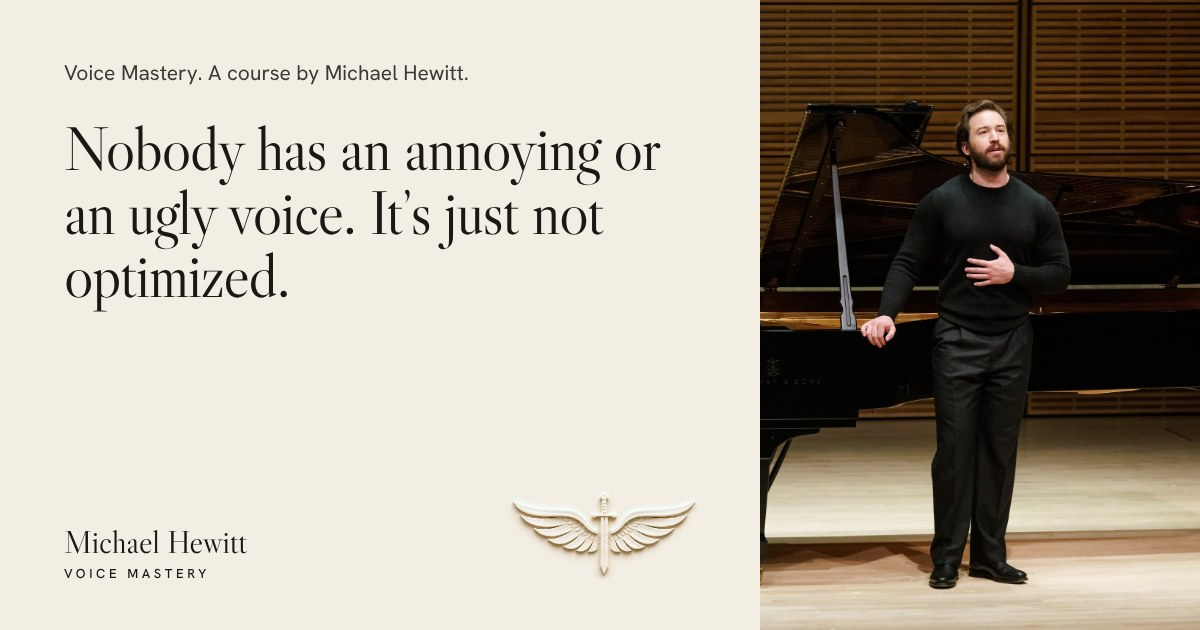
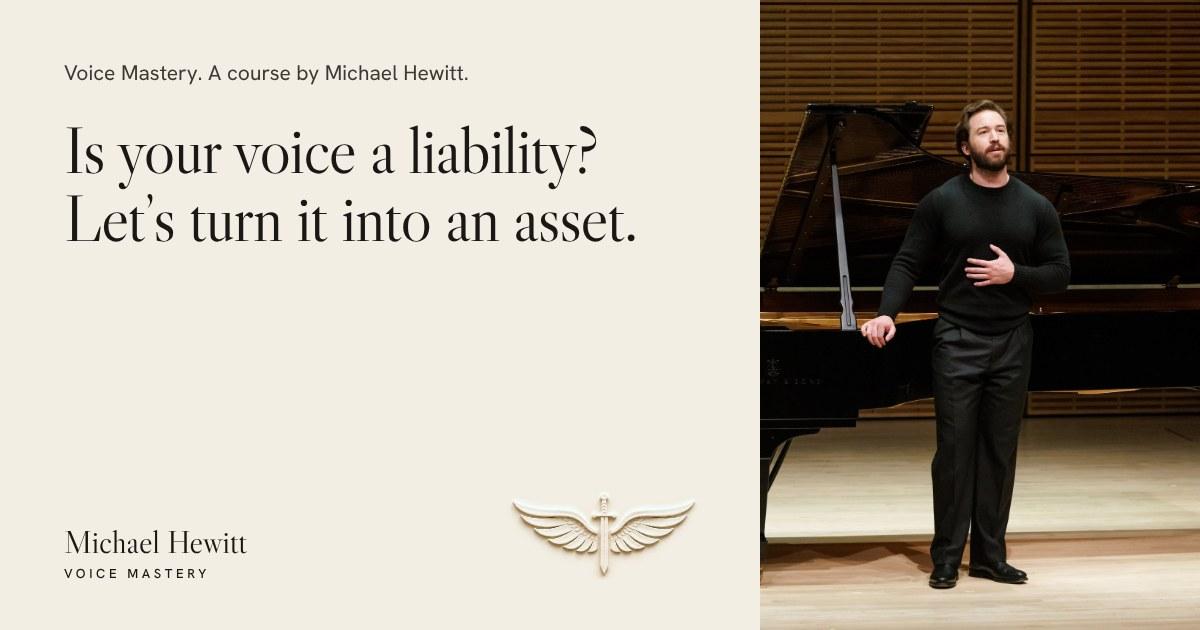
Open the Voice Mastery sales page with Michael's letter (#26)
* Tighten the Voice Mastery sales page for phones

The testimonials now show each client's strongest line, word for word,
with who said it on one short line, so the section is about 40% shorter
on a phone. On phones the header stays at the top with the pre-order
button, the emblem is smaller, the Carnegie Hall and La traviata photos
are cropped shorter, and Aaron Smith's photo sits beside his name. The
page is about a fifth shorter on a phone. Nothing else changes on desktop.

Claude-Session: https://claude.ai/code/session_01XbAx1mQMFUoDbdWyCNvUbj

* Open the Voice Mastery sales page with Michael's letter

The top of the page is now a letter in Michael's words: a new headline,
the letter itself, and his signature, with the photo, price, and
pre-order button beside it on wide screens and after it on phones. The
About section carries his new paragraphs. The share image and the page
description use the new headline.

Claude-Session: https://claude.ai/code/session_01XbAx1mQMFUoDbdWyCNvUbj

* Set the Voice Mastery letter cleanly and drop the problem table

The letter now reads as one piece: no rules between lines, one text
size throughout, the problems and the three "As a..." lines as bullets,
and the long "From BDRs" sentence broken at its two joints. Three
problems from the old table join the list, "robotic" joins the first
bullet, and the table itself is removed because the letter now covers it.

Claude-Session: https://claude.ai/code/session_01XbAx1mQMFUoDbdWyCNvUbj

---------

Changed region(s): [[0.0617, 0.2111, 0.555, 0.3016], [0.0308, 0.3016, 0.5242, 0.3921], [0.0617, 0.4222, 0.2467, 0.4825]]

diff --git a/voicemastery/index.html b/voicemastery/index.html
@@ -4,12 +4,12 @@
 <meta charset="utf-8">
 <meta name="viewport" content="width=device-width, initial-scale=1">
 <title>Voice Mastery: a course by Michael Hewitt</title>
-<meta name="description" content="Nobody has an annoying or an ugly voice. It’s just not optimized. Voice Mastery is a self-paced course by Michael Hewitt: $249 in pre-sale, $599 when it goes live on January 1, 2027.">
+<meta name="description" content="Is your voice a liability? Let’s turn it into an asset. Voice Mastery is a self-paced course by Michael Hewitt: $249 in pre-sale, $599 when it goes live on January 1, 2027.">
 <link rel="canonical" href="https://www.voicemastery.com/">
 <meta property="og:type" content="website">
 <meta property="og:site_name" content="Voice Mastery">
 <meta property="og:title" content="Voice Mastery: a course by Michael Hewitt">
-<meta property="og:description" content="Nobody has an annoying or an ugly voice. It’s just not optimized. Voice Mastery is a self-paced course by Michael Hewitt: $249 in pre-sale, $599 when it goes live on January 1, 2027.">
+<meta property="og:description" content="Is your voice a liability? Let’s turn it into an asset. Voice Mastery is a self-paced course by Michael Hewitt: $249 in pre-sale, $599 when it goes live on January 1, 2027.">
 <meta property="og:url" content="https://www.voicemastery.com/">
 <meta property="og:image" content="https://www.voicemastery.com/assets/og.jpg">
 <meta property="og:image:width" content="1200">
@@ -32,13 +32,23 @@ a.vm-btn:hover{background:#7A2E22 !important;color:#F3EEE4 !important}
 a.vm-btn-l:hover{background:#FFFFFF !important;color:#7A2E22 !important}
 :focus-visible{outline:2px solid #7A2E22;outline-offset:4px}
 .vm-dark :focus-visible{outline-color:#F3EEE4}
-[id]{scroll-margin-top:24px}
+[id]{scroll-margin-top:84px}
 summary.vm-q{list-style:none;cursor:pointer}
 summary.vm-q::-webkit-details-marker{display:none}
 summary.vm-q::after{content:'+';flex:0 0 auto;font-family:'Hanken Grotesk','Helvetica Neue',system-ui,sans-serif;font-size:26px;font-weight:400;line-height:1;color:#7A2E22}
 details[open]>summary.vm-q::after{transform:rotate(45deg)}
 summary.vm-q:hover{color:#7A2E22 !important}
 @media (max-width:760px){.vm-links{display:none !important}}
+.vm-list li::marker{color:#7A2E22}
+@media (min-width:900px){.vm-aside{position:sticky;top:96px}}
+@media (max-width:600px){
+.vm-head>div{min-height:60px !important;padding-top:4px !important;padding-bottom:4px !important}
+.vm-emblem{max-width:120px !important}
+.vm-photo{aspect-ratio:4 / 3 !important}
+.vm-feature-lead{font-size:17px !important}
+.vm-feature-by{flex-direction:row !important;align-items:center !important;gap:16px !important}
+.vm-feature-photo{flex:0 0 112px;width:112px !important}
+}
 </style>
 </head>
 <body>
@@ -48,7 +58,7 @@ summary.vm-q:hover{color:#7A2E22 !important}
 <p style="max-width: 1280px; margin: 0 auto; box-sizing: border-box; margin: 0 auto; padding: 11px clamp(20px, 5vw, 64px); font-size: 14px; line-height: 1.45; text-align: center; text-wrap: balance;">Pre-sale: $249 now. $599 when the course goes live on January 1. <a class="vm-light" href="https://buy.stripe.com/cNidR81yY9bi78r3ZzaIM3m" style="color: #F3EEE4; font-weight: 500; white-space: nowrap;">Pre-order</a></p>
 </div>
 
-<header style="border-bottom: 1px solid rgba(26,23,20,0.16);">
+<header class="vm-head" style="position: sticky; top: 0; z-index: 40; background: #F3EEE4; border-bottom: 1px solid rgba(26,23,20,0.16);">
 <div style="max-width: 1280px; margin: 0 auto; box-sizing: border-box; min-height: 72px; padding: 8px clamp(20px, 5vw, 64px); display: flex; flex-wrap: wrap; justify-content: space-between; align-items: center; gap: 8px 24px;">
 <a href="#top" style="display: inline-flex; flex-direction: column; align-items: flex-start; gap: 6px; padding: 8px 0; color: #1A1714; text-decoration: none; white-space: nowrap;">
 <span style="font-family: 'Libre Caslon Display', 'Big Caslon', Georgia, serif; font-size: 23px; line-height: 1; letter-spacing: 0.005em;">Michael Hewitt</span>
@@ -63,19 +73,47 @@ summary.vm-q:hover{color:#7A2E22 !important}
 <div style="display: flex; flex-wrap: wrap-reverse; align-items: center; gap: clamp(20px, 4vw, 64px);">
 <div style="flex: 7 1 440px; min-width: 0; display: flex; flex-direction: column; gap: clamp(16px, 2vw, 28px);">
 <p style="margin: 0; font-size: 16px; line-height: 1.5; color: #3D3832;">Voice Mastery. A course by Michael Hewitt.</p>
-<h1 id="hero-title" style="margin: 0; font-family: 'Libre Caslon Display', 'Big Caslon', Georgia, serif; font-weight: 400; font-size: clamp(42px, 5.4vw, 78px); line-height: 1; letter-spacing: -0.022em; text-wrap: balance; color: #1A1714;">Nobody has an annoying or an ugly voice. It’s just not optimized.</h1>
+<h1 id="hero-title" style="margin: 0; font-family: 'Libre Caslon Display', 'Big Caslon', Georgia, serif; font-weight: 400; font-size: clamp(40px, 4.7vw, 66px); line-height: 1.02; letter-spacing: -0.022em; text-wrap: balance; color: #1A1714;"><span style="display: block;">Is your voice a liability?</span><span style="display: block;">Let’s turn it into an asset.</span></h1>
 </div>
 <div style="flex: 5 1 240px; min-width: 0;">
-<img src="/assets/emblem.webp" alt="" width="1532" height="688" style="display: block; width: 100%; max-width: clamp(200px, 36vw, 420px); height: auto;">
+<img class="vm-emblem" src="/assets/emblem.webp" alt="" width="1532" height="688" style="display: block; width: 100%; max-width: clamp(200px, 36vw, 420px); height: auto;">
 </div>
 </div>
-<div style="display: flex; flex-wrap: wrap-reverse; align-items: flex-end; gap: clamp(32px, 5vw, 80px);">
-<figure style="flex: 5 1 320px; min-width: 0; margin: 0;">
-<img src="/assets/carnegie.jpg" alt="Michael Hewitt singing in recital at Carnegie Hall, standing beside a grand piano" width="1200" height="1800" style="display: block; width: 100%; height: auto; aspect-ratio: 4 / 5; object-fit: cover; object-position: 50% 22%; background: #E6DFD2;">
+<div style="display: flex; flex-wrap: wrap; align-items: flex-start; justify-content: space-between; gap: 36px clamp(32px, 5vw, 72px);">
+<div style="flex: 7 1 460px; min-width: 0; max-width: 660px; display: flex; flex-direction: column; gap: clamp(16px, 1.6vw, 22px);">
+<p style="margin: 0; font-family: 'Libre Caslon Text', Georgia, serif; font-size: clamp(18px, 1.55vw, 20px); line-height: 1.55; color: #1A1714; text-wrap: pretty;">Your competence deserves a speaking voice that matches what you know, what you’ve accomplished, and where you’re going. But right now, all anyone can hear is how you sound, and it’s costing you reputation, opportunity, compensation, and confidence.</p>
+<ul class="vm-list" style="margin: 0; padding: 0 0 0 1.2em; font-family: 'Libre Caslon Text', Georgia, serif; font-size: clamp(18px, 1.55vw, 20px); line-height: 1.45; color: #1A1714;">
+<li style="padding: 4px 0 4px 2px; text-wrap: pretty;">Sounding monotone or robotic, overly nasal, too high (or&nbsp;low) pitched</li>
+<li style="padding: 4px 0 4px 2px; text-wrap: pretty;">Hating your voice</li>
+<li style="padding: 4px 0 4px 2px; text-wrap: pretty;">Losing your voice</li>
+<li style="padding: 4px 0 4px 2px; text-wrap: pretty;">Not being heard, always asked to repeat yourself</li>
+<li style="padding: 4px 0 4px 2px; text-wrap: pretty;">Rambling</li>
+<li style="padding: 4px 0 4px 2px; text-wrap: pretty;">Getting talked over in meetings</li>
+<li style="padding: 4px 0 4px 2px; text-wrap: pretty;">Having more filler words than relevant content</li>
+<li style="padding: 4px 0 4px 2px; text-wrap: pretty;">Discomfort giving feedback or holding frame in a pricing or negotiation meeting</li>
+<li style="padding: 4px 0 4px 2px; text-wrap: pretty;">Asking questions that instead of building trust and moving the conversation forward, make you look less competent than you are</li>
+</ul>
+<p style="margin: 0; font-family: 'Libre Caslon Text', Georgia, serif; font-size: clamp(18px, 1.55vw, 20px); line-height: 1.55; color: #1A1714; text-wrap: pretty; font-weight: 700;">These are all skill issues. Which means: they’re learnable, and trainable.</p>
+<p style="margin: 0; font-family: 'Libre Caslon Text', Georgia, serif; font-size: clamp(18px, 1.55vw, 20px); line-height: 1.55; color: #1A1714; text-wrap: pretty;">Speaking with confidence, clarity, and concision is simple, yet so few do so.</p>
+<p style="margin: 0; font-family: 'Libre Caslon Text', Georgia, serif; font-size: clamp(18px, 1.55vw, 20px); line-height: 1.55; color: #1A1714; text-wrap: pretty;">When it comes to the voice, there is equal distribution of vocal anatomy, and unequal distribution of knowledge of how to use it.</p>
+<ul class="vm-list" style="margin: 0; padding: 0 0 0 1.2em; font-family: 'Libre Caslon Text', Georgia, serif; font-size: clamp(18px, 1.55vw, 20px); line-height: 1.45; color: #1A1714;">
+<li style="padding: 4px 0 4px 2px; text-wrap: pretty;">As a retired professional opera singer, I had to learn the voice.</li>
+<li style="padding: 4px 0 4px 2px; text-wrap: pretty;">As a former full-cycle cybersecurity account executive, I had to learn to synthesize complex technical ideas into a relevant message.</li>
+<li style="padding: 4px 0 4px 2px; text-wrap: pretty;">As a relentless student of personal development in pursuit of self-knowledge, I had to learn to be the same person in every room.</li>
+</ul>
+<p style="margin: 0; font-family: 'Libre Caslon Text', Georgia, serif; font-size: clamp(18px, 1.55vw, 20px); line-height: 1.55; color: #1A1714; text-wrap: pretty;">This is a self-paced course that follows the same curriculum and frameworks I’ve used with hundreds of clients over the past decade.</p>
+<p style="margin: 0; font-family: 'Libre Caslon Text', Georgia, serif; font-size: clamp(18px, 1.55vw, 20px); line-height: 1.55; color: #1A1714; text-wrap: pretty;"><span style="display: block; padding-left: calc(1.2em + 2px);">From BDRs in their first W2 learning to drop performative shticks while smiling and dialing so they blow out their quotas and have true confidence on the phone,</span><span style="display: block; padding-left: calc(1.2em + 2px); margin-top: 0.45em;">to helping founder-CEOs close the gap faster on their first billion by thinking, speaking, and acting differently,</span><span style="display: block; margin-top: 0.45em;"><strong style="font-weight: 700;">getting attention faster and holding it longer</strong> whenever and wherever you open your mouth is just the beginning of what you’ll learn inside this course.</span></p>
+<p style="margin: 0; font-family: 'Libre Caslon Text', Georgia, serif; font-size: clamp(18px, 1.55vw, 20px); line-height: 1.55; color: #1A1714; text-wrap: pretty;">The rest…is up to you.</p>
+<div style="display: flex; flex-direction: column; gap: 6px; padding-top: 4px;">
+<img src="/assets/signature.png" alt="Michael Hewitt’s signature" width="900" height="410" style="display: block; width: clamp(150px, 16vw, 200px); height: auto;">
+<p style="margin: 0; font-size: 15px; line-height: 1.4; color: #5C554C;">Michael Hewitt</p>
+</div>
+</div>
+<aside class="vm-aside" aria-label="Pre-order" style="flex: 4 1 300px; min-width: 0; max-width: 400px; display: flex; flex-direction: column; gap: 22px;">
+<figure style="margin: 0;">
+<img class="vm-photo" src="/assets/carnegie.jpg" alt="Michael Hewitt singing in recital at Carnegie Hall, standing beside a grand piano" width="1200" height="1800" style="display: block; width: 100%; height: auto; aspect-ratio: 4 / 3; object-fit: cover; object-position: 50% 22%; background: #E6DFD2;">
 <figcaption style="margin: 10px 0 0; font-size: 14px; line-height: 1.45; color: #5C554C;">In recital at Carnegie Hall.</figcaption>
 </figure>
-<div style="flex: 7 1 440px; min-width: 0; display: flex; flex-direction: column; gap: 22px;">
-<p style="margin: 0; font-family: 'Libre Caslon Text', Georgia, serif; font-size: clamp(22px, 2.2vw, 30px); line-height: 1.3; color: #1A1714; text-wrap: balance;"><span style="display: block;">Equal distribution of vocal anatomy.</span><span style="display: block;">Unequal distribution of knowledge of how to use it.</span></p>
 <div style="display: flex; flex-wrap: wrap; border-top: 1px solid rgba(26,23,20,0.16); border-bottom: 1px solid rgba(26,23,20,0.16);">
 <div style="flex: 1 1 140px; box-sizing: border-box; padding: 18px 20px 20px 0; display: flex; flex-direction: column; gap: 8px;">
 <span style="font-size: 14px; line-height: 1.4; color: #5C554C;">Pre-sale, now</span>
@@ -98,81 +136,73 @@ summary.vm-q:hover{color:#7A2E22 !important}
 <li style="font-family: 'Libre Caslon Display', 'Big Caslon', Georgia, serif; font-size: clamp(20px, 1.7vw, 24px); line-height: 1.2; letter-spacing: -0.01em; white-space: nowrap;">Galvanick</li>
 </ul>
 </div>
-</div>
+</aside>
 </div>
 </div>
 </section>
 
 <main id="main">
 
-<section id="change" aria-labelledby="change-title" style="border-top: 1px solid rgba(26,23,20,0.16);">
-<div style="max-width: 1280px; margin: 0 auto; box-sizing: border-box; padding: clamp(44px, 6.5vw, 96px) clamp(20px, 5vw, 64px); display: flex; flex-direction: column; gap: clamp(24px, 3vw, 40px);">
-<h2 id="change-title" style="margin: 0; font-family: 'Libre Caslon Display', 'Big Caslon', Georgia, serif; font-weight: 400; font-size: clamp(32px, 4vw, 56px); line-height: 1.04; letter-spacing: -0.012em; text-wrap: balance; color: #1A1714; max-width: 14em;">How do you sound hot and smart when you speak?</h2>
-<table style="width: 100%; table-layout: fixed; border-collapse: separate; border-spacing: 0; border-bottom: 1px solid rgba(26,23,20,0.16);"><thead><tr><th scope="col" style="width: 40%; text-align: left; vertical-align: bottom; padding: 14px 12px 12px 0; font-family: 'Libre Caslon Text', Georgia, serif; font-style: italic; font-weight: 400; font-size: clamp(16px, 1.6vw, 21px); line-height: 1.3; color: #1A1714;">The problem</th><th scope="col" style="width: 60%; text-align: left; vertical-align: bottom; padding: 14px clamp(14px, 3vw, 36px) 12px; background: #1A1714; font-family: 'Libre Caslon Text', Georgia, serif; font-style: italic; font-weight: 400; font-size: clamp(16px, 1.6vw, 21px); line-height: 1.3; color: #F3EEE4;">The end state</th></tr></thead><tbody><tr><th scope="row" style="text-align: left; vertical-align: top; padding: clamp(14px, 1.8vw, 22px) 12px clamp(14px, 1.8vw, 22px) 0; border-top: 1px solid rgba(26,23,20,0.16); font-family: 'Libre Caslon Text', Georgia, serif; font-weight: 400; font-size: clamp(16px, 1.9vw, 25px); line-height: 1.3; color: #1A1714;">Can’t be heard, always asked to repeat myself</th><td style="text-align: left; vertical-align: top; padding: clamp(14px, 1.8vw, 22px) clamp(14px, 3vw, 36px); background: #1A1714; border-top: 1px solid rgba(243,238,228,0.3); font-family: 'Libre Caslon Display', 'Big Caslon', Georgia, serif; font-size: clamp(18px, 2.3vw, 31px); line-height: 1.18; letter-spacing: -0.005em; color: #F3EEE4;">Start getting heard.</td></tr><tr><th scope="row" style="text-align: left; vertical-align: top; padding: clamp(14px, 1.8vw, 22px) 12px clamp(14px, 1.8vw, 22px) 0; border-top: 1px solid rgba(26,23,20,0.16); font-family: 'Libre Caslon Text', Georgia, serif; font-weight: 400; font-size: clamp(16px, 1.9vw, 25px); line-height: 1.3; color: #1A1714;">Hate my voice</th><td style="text-align: left; vertical-align: top; padding: clamp(14px, 1.8vw, 22px) clamp(14px, 3vw, 36px); background: #1A1714; border-top: 1px solid rgba(243,238,228,0.3); font-family: 'Libre Caslon Display', 'Big Caslon', Georgia, serif; font-size: clamp(18px, 2.3vw, 31px); line-height: 1.18; letter-spacing: -0.005em; color: #F3EEE4;">Clear, attractive, and warm. Still taken seriously.</td></tr><tr><th scope="row" style="text-align: left; vertical-align: top; padding: clamp(14px, 1.8vw, 22px) 12px clamp(14px, 1.8vw, 22px) 0; border-top: 1px solid rgba(26,23,20,0.16); font-family: 'Libre Caslon Text', Georgia, serif; font-weight: 400; font-size: clamp(16px, 1.9vw, 25px); line-height: 1.3; color: #1A1714;">Sounding robotic or monotone</th><td style="text-align: left; vertical-align: top; padding: clamp(14px, 1.8vw, 22px) clamp(14px, 3vw, 36px); background: #1A1714; border-top: 1px solid rgba(243,238,228,0.3); font-family: 'Libre Caslon Display', 'Big Caslon', Georgia, serif; font-size: clamp(18px, 2.3vw, 31px); line-height: 1.18; letter-spacing: -0.005em; color: #F3EEE4;">Emotionally expressive, without losing emotional control.</td></tr><tr><th scope="row" style="text-align: left; vertical-align: top; padding: clamp(14px, 1.8vw, 22px) 12px clamp(14px, 1.8vw, 22px) 0; border-top: 1px solid rgba(26,23,20,0.16); font-family: 'Libre Caslon Text', Georgia, serif; font-weight: 400; font-size: clamp(16px, 1.9vw, 25px); line-height: 1.3; color: #1A1714;">Rambling</th><td style="text-align: left; vertical-align: top; padding: clamp(14px, 1.8vw, 22px) clamp(14px, 3vw, 36px); background: #1A1714; border-top: 1px solid rgba(243,238,228,0.3); font-family: 'Libre Caslon Display', 'Big Caslon', Georgia, serif; font-size: clamp(18px, 2.3vw, 31px); line-height: 1.18; letter-spacing: -0.005em; color: #F3EEE4;">Increase wit and speak in soundbites that answer the question and leave them asking for more.</td></tr><tr><th scope="row" style="text-align: left; vertical-align: top; padding: clamp(14px, 1.8vw, 22px) 12px clamp(14px, 1.8vw, 22px) 0; border-top: 1px solid rgba(26,23,20,0.16); font-family: 'Libre Caslon Text', Georgia, serif; font-weight: 400; font-size: clamp(16px, 1.9vw, 25px); line-height: 1.3; color: #1A1714;">Losing my voice</th><td style="text-align: left; vertical-align: top; padding: clamp(14px, 1.8vw, 22px) clamp(14px, 3vw, 36px); background: #1A1714; border-top: 1px solid rgba(243,238,228,0.3); font-family: 'Libre Caslon Display', 'Big Caslon', Georgia, serif; font-size: clamp(18px, 2.3vw, 31px); line-height: 1.18; letter-spacing: -0.005em; color: #F3EEE4;">Lose your voice less. Recover it more quickly.</td></tr><tr><th scope="row" style="text-align: left; vertical-align: top; padding: clamp(14px, 1.8vw, 22px) 12px clamp(14px, 1.8vw, 22px) 0; border-top: 1px solid rgba(26,23,20,0.16); font-family: 'Libre Caslon Text', Georgia, serif; font-weight: 400; font-size: clamp(16px, 1.9vw, 25px); line-height: 1.3; color: #1A1714;">Nasal voice</th><td style="text-align: left; vertical-align: top; padding: clamp(14px, 1.8vw, 22px) clamp(14px, 3vw, 36px); background: #1A1714; border-top: 1px solid rgba(243,238,228,0.3); font-family: 'Libre Caslon Display', 'Big Caslon', Georgia, serif; font-size: clamp(18px, 2.3vw, 31px); line-height: 1.18; letter-spacing: -0.005em; color: #F3EEE4;">Deeper and more commanding, without sounding like you’re trying too hard.</td></tr></tbody></table>
-<div><a class="vm-btn" href="https://buy.stripe.com/cNidR81yY9bi78r3ZzaIM3m" style="display: inline-flex; align-items: center; justify-content: center; min-height: 52px; padding: 0 28px; background: #1A1714; color: #F3EEE4; text-decoration: none; font-size: 16px; font-weight: 500; box-sizing: border-box;">Pre-order for $249</a></div>
-</div>
-</section>
-
 <section id="results" aria-labelledby="results-title" style="border-top: 1px solid rgba(26,23,20,0.16);">
-<div style="max-width: 1280px; margin: 0 auto; box-sizing: border-box; padding: clamp(44px, 6.5vw, 96px) clamp(20px, 5vw, 64px); display: flex; flex-direction: column; gap: clamp(28px, 3.5vw, 44px);">
+<div style="max-width: 1280px; margin: 0 auto; box-sizing: border-box; padding: clamp(44px, 6.5vw, 96px) clamp(20px, 5vw, 64px); display: flex; flex-direction: column; gap: clamp(20px, 3vw, 36px);">
 <div style="display: flex; flex-direction: column; gap: 6px;">
 <h2 id="results-title" style="margin: 0; font-family: 'Libre Caslon Text', Georgia, serif; font-style: italic; font-size: 21px; line-height: 1.3; color: #1A1714; font-weight: 400;">In their words</h2>
 <p style="margin: 0; font-size: 15px; line-height: 1.5; color: #5C554C;">From one-on-one coaching clients.</p>
 </div>
-<figure style="margin: 0; display: flex; flex-wrap: wrap; align-items: flex-start; gap: 28px clamp(32px, 5vw, 72px);">
-<blockquote style="flex: 7 1 420px; min-width: 0; margin: 0; display: flex; flex-direction: column; gap: clamp(16px, 2vw, 24px);">
-<p style="margin: 0; font-family: 'Libre Caslon Text', Georgia, serif; font-size: clamp(19px, 1.8vw, 24px); line-height: 1.45; color: #3D3832; max-width: 28em; text-wrap: pretty;">“Chatting with another CEO about how I can increase my gross margins, decrease my costs, all that, <span style="color: #1A1714; font-weight: 700;">I’ve got plenty of resources for that.</span></p>
+<figure style="margin: 0; display: flex; flex-wrap: wrap; align-items: flex-start; gap: 20px clamp(32px, 5vw, 72px);">
+<blockquote style="flex: 7 1 420px; min-width: 0; margin: 0; display: flex; flex-direction: column; gap: clamp(12px, 1.6vw, 20px);">
+<p class="vm-feature-lead" style="margin: 0; font-family: 'Libre Caslon Text', Georgia, serif; font-size: clamp(19px, 1.8vw, 24px); line-height: 1.45; color: #3D3832; max-width: 28em; text-wrap: pretty;">“Chatting with another CEO about how I can increase my gross margins, decrease my costs, all that, <span style="color: #1A1714; font-weight: 700;">I’ve got plenty of resources for that.</span></p>
 <p style="margin: 0; font-family: 'Libre Caslon Display', 'Big Caslon', Georgia, serif; font-size: clamp(32px, 4.4vw, 60px); line-height: 1.04; letter-spacing: -0.015em; color: #1A1714; max-width: 13em; text-wrap: balance;">“Talking to somebody who can help me be heard, that’s where you come in.”</p>
 </blockquote>
-<figcaption style="flex: 5 1 300px; min-width: 0; display: flex; flex-direction: column; gap: 14px;">
-<img src="/assets/aaron-and-michael.jpg" alt="Aaron Smith and Michael Hewitt" width="1000" height="800" style="display: block; width: 100%; max-width: 460px; height: auto; aspect-ratio: 5 / 4; object-fit: cover; background: #E6DFD2;">
+<figcaption class="vm-feature-by" style="flex: 5 1 300px; min-width: 0; display: flex; flex-direction: column; gap: 14px;">
+<img class="vm-feature-photo" src="/assets/aaron-and-michael.jpg" alt="Aaron Smith and Michael Hewitt" width="1000" height="800" style="display: block; width: 100%; max-width: 460px; height: auto; aspect-ratio: 5 / 4; object-fit: cover; background: #E6DFD2;">
 <span style="display: flex; flex-direction: column; gap: 2px; font-size: 15px; line-height: 1.5; color: #5C554C;"><span style="font-size: 17px; font-weight: 600; color: #1A1714;">Aaron Smith</span>Founder &amp; CEO, Vetriq</span>
 </figcaption>
 </figure>
 <div style="columns: 300px 3; column-gap: clamp(28px, 3.4vw, 48px);">
-<figure style="margin: 0; padding: 28px 0; border-top: 1px solid rgba(26,23,20,0.16); display: flex; flex-direction: column; gap: 14px; break-inside: avoid;">
-<blockquote style="margin: 0; font-size: 16px; line-height: 1.65; color: #3D3832; text-wrap: pretty;">“When I came to you originally, <span style="color: #1A1714; font-weight: 600;">I had no confidence in my ability to do public speaking. I’m now signed up for three panels in one day in Singapore.</span> … My partner said it best… it was clear that my confidence and tone in public speaking is markedly different than it was nine or even six months ago.”</blockquote>
-<figcaption style="display: flex; flex-direction: column; gap: 2px; font-size: 14px; line-height: 1.4; color: #5C554C;"><span style="font-size: 16px; font-weight: 600; color: #1A1714;">Spencer Applebaum</span><span>General Partner and Co-Head of Venture, Multicoin Capital</span></figcaption>
+<figure style="margin: 0; padding: 16px 0 18px; border-top: 1px solid rgba(26,23,20,0.16); display: flex; flex-direction: column; gap: 6px; break-inside: avoid;">
+<blockquote style="margin: 0; font-family: 'Libre Caslon Text', Georgia, serif; font-size: clamp(17px, 1.5vw, 19px); line-height: 1.4; color: #1A1714; text-wrap: pretty;">“I had no confidence in my ability to do public speaking. I’m now signed up for three panels in one day in Singapore.”</blockquote>
+<figcaption style="margin: 0; font-size: 14px; line-height: 1.45; color: #5C554C; text-wrap: pretty;"><span style="font-weight: 600; color: #1A1714;">Spencer Applebaum</span>, General Partner and Co-Head of Venture, Multicoin Capital</figcaption>
 </figure>
-<figure style="margin: 0; padding: 28px 0; border-top: 1px solid rgba(26,23,20,0.16); display: flex; flex-direction: column; gap: 14px; break-inside: avoid;">
-<blockquote style="margin: 0; font-size: 16px; line-height: 1.65; color: #3D3832; text-wrap: pretty;">“He teaches in a relaxed, accessible way that makes the sessions something I look forward to. … <span style="color: #1A1714; font-weight: 600;">The result is that I now say yes to things I used to avoid.</span> … I’m more comfortable on stage and I come across better everywhere else.”</blockquote>
-<figcaption style="display: flex; flex-direction: column; gap: 2px; font-size: 14px; line-height: 1.4; color: #5C554C;"><span style="font-size: 16px; font-weight: 600; color: #1A1714;">Brian Smith</span><span>President, Jito Foundation</span></figcaption>
+<figure style="margin: 0; padding: 16px 0 18px; border-top: 1px solid rgba(26,23,20,0.16); display: flex; flex-direction: column; gap: 6px; break-inside: avoid;">
+<blockquote style="margin: 0; font-family: 'Libre Caslon Text', Georgia, serif; font-size: clamp(17px, 1.5vw, 19px); line-height: 1.4; color: #1A1714; text-wrap: pretty;">“The result is that I now say yes to things I used to avoid.”</blockquote>
+<figcaption style="margin: 0; font-size: 14px; line-height: 1.45; color: #5C554C; text-wrap: pretty;"><span style="font-weight: 600; color: #1A1714;">Brian Smith</span>, President, Jito Foundation</figcaption>
 </figure>
-<figure style="margin: 0; padding: 28px 0; border-top: 1px solid rgba(26,23,20,0.16); display: flex; flex-direction: column; gap: 14px; break-inside: avoid;">
-<blockquote style="margin: 0; font-size: 16px; line-height: 1.65; color: #3D3832; text-wrap: pretty;">“… <span style="color: #1A1714; font-weight: 600;">he treats the voice as an instrument to be practiced, exercised, and refined</span> yielding a more confident, more present individual.”</blockquote>
-<figcaption style="display: flex; flex-direction: column; gap: 2px; font-size: 14px; line-height: 1.4; color: #5C554C;"><span style="font-size: 16px; font-weight: 600; color: #1A1714;">Ben Marx</span><span>Head of Engineering, Malbec Labs</span></figcaption>
+<figure style="margin: 0; padding: 16px 0 18px; border-top: 1px solid rgba(26,23,20,0.16); display: flex; flex-direction: column; gap: 6px; break-inside: avoid;">
+<blockquote style="margin: 0; font-family: 'Libre Caslon Text', Georgia, serif; font-size: clamp(17px, 1.5vw, 19px); line-height: 1.4; color: #1A1714; text-wrap: pretty;">“… he treats the voice as an instrument to be practiced, exercised, and refined yielding a more confident, more present individual.”</blockquote>
+<figcaption style="margin: 0; font-size: 14px; line-height: 1.45; color: #5C554C; text-wrap: pretty;"><span style="font-weight: 600; color: #1A1714;">Ben Marx</span>, Head of Engineering, Malbec Labs</figcaption>
 </figure>
-<figure style="margin: 0; padding: 28px 0; border-top: 1px solid rgba(26,23,20,0.16); display: flex; flex-direction: column; gap: 14px; break-inside: avoid;">
-<blockquote style="margin: 0; font-size: 16px; line-height: 1.65; color: #3D3832; text-wrap: pretty;">“He challenged me to face my fears, trust my instincts, and <span style="color: #1A1714; font-weight: 600;">find strength in my own voice rather than trying to fit someone else’s idea of a leader.</span> I came to him to become a better speaker, and walked away a stronger leader.”</blockquote>
-<figcaption style="display: flex; flex-direction: column; gap: 2px; font-size: 14px; line-height: 1.4; color: #5C554C;"><span style="font-size: 16px; font-weight: 600; color: #1A1714;">Anita Kirkovska</span><span>Head of Growth, Vellum AI</span></figcaption>
+<figure style="margin: 0; padding: 16px 0 18px; border-top: 1px solid rgba(26,23,20,0.16); display: flex; flex-direction: column; gap: 6px; break-inside: avoid;">
+<blockquote style="margin: 0; font-family: 'Libre Caslon Text', Georgia, serif; font-size: clamp(17px, 1.5vw, 19px); line-height: 1.4; color: #1A1714; text-wrap: pretty;">“I came to him to become a better speaker, and walked away a stronger leader.”</blockquote>
+<figcaption style="margin: 0; font-size: 14px; line-height: 1.45; color: #5C554C; text-wrap: pretty;"><span style="font-weight: 600; color: #1A1714;">Anita Kirkovska</span>, Head of Growth, Vellum AI</figcaption>
 </figure>
-<figure style="margin: 0; padding: 28px 0; border-top: 1px solid rgba(26,23,20,0.16); display: flex; flex-direction: column; gap: 14px; break-inside: avoid;">
-<blockquote style="margin: 0; font-size: 16px; line-height: 1.65; color: #3D3832; text-wrap: pretty;">“I’m less impulsive after working with you. <span style="color: #1A1714; font-weight: 600;">I learned how to structure a thought in my brain.</span> … who doesn’t need a way of structuring their thoughts and presenting themselves better? Who’s not going to benefit from that?”</blockquote>
-<figcaption style="display: flex; flex-direction: column; gap: 2px; font-size: 14px; line-height: 1.4; color: #5C554C;"><span style="font-size: 16px; font-weight: 600; color: #1A1714;">Marina</span><span>Solutions Architect (Applied AI), Vellum AI</span></figcaption>
+<figure style="margin: 0; padding: 16px 0 18px; border-top: 1px solid rgba(26,23,20,0.16); display: flex; flex-direction: column; gap: 6px; break-inside: avoid;">
+<blockquote style="margin: 0; font-family: 'Libre Caslon Text', Georgia, serif; font-size: clamp(17px, 1.5vw, 19px); line-height: 1.4; color: #1A1714; text-wrap: pretty;">“I’m less impulsive after working with you. I learned how to structure a thought in my brain.”</blockquote>
+<figcaption style="margin: 0; font-size: 14px; line-height: 1.45; color: #5C554C; text-wrap: pretty;"><span style="font-weight: 600; color: #1A1714;">Marina</span>, Solutions Architect (Applied AI), Vellum AI</figcaption>
 </figure>
-<figure style="margin: 0; padding: 28px 0; border-top: 1px solid rgba(26,23,20,0.16); display: flex; flex-direction: column; gap: 14px; break-inside: avoid;">
-<blockquote style="margin: 0; font-size: 16px; line-height: 1.65; color: #3D3832; text-wrap: pretty;">“I was afraid to speak on camera and put myself out there. … <span style="color: #1A1714; font-weight: 600;">I just talk in front of the camera now and I just let things rip</span>… There’s just so much that goes into voice that I wasn’t aware of.”</blockquote>
-<figcaption style="display: flex; flex-direction: column; gap: 2px; font-size: 14px; line-height: 1.4; color: #5C554C;"><span style="font-size: 16px; font-weight: 600; color: #1A1714;">Mark</span><span>Relationship coach</span></figcaption>
+<figure style="margin: 0; padding: 16px 0 18px; border-top: 1px solid rgba(26,23,20,0.16); display: flex; flex-direction: column; gap: 6px; break-inside: avoid;">
+<blockquote style="margin: 0; font-family: 'Libre Caslon Text', Georgia, serif; font-size: clamp(17px, 1.5vw, 19px); line-height: 1.4; color: #1A1714; text-wrap: pretty;">“I was afraid to speak on camera … I just talk in front of the camera now and I just let things rip.”</blockquote>
+<figcaption style="margin: 0; font-size: 14px; line-height: 1.45; color: #5C554C; text-wrap: pretty;"><span style="font-weight: 600; color: #1A1714;">Mark</span>, Relationship coach</figcaption>
 </figure>
-<figure style="margin: 0; padding: 28px 0; border-top: 1px solid rgba(26,23,20,0.16); display: flex; flex-direction: column; gap: 14px; break-inside: avoid;">
-<blockquote style="margin: 0; font-size: 16px; line-height: 1.65; color: #3D3832; text-wrap: pretty;">“As a result <span style="color: #1A1714; font-weight: 600;">I no longer have a tired/sore voice after a long day of zoom calls</span> and my voice is much clearer and carries better.”</blockquote>
-<figcaption style="display: flex; flex-direction: column; gap: 2px; font-size: 14px; line-height: 1.4; color: #5C554C;"><span style="font-size: 16px; font-weight: 600; color: #1A1714;">Divy Kandala</span><span>YC-backed founder</span></figcaption>
+<figure style="margin: 0; padding: 16px 0 18px; border-top: 1px solid rgba(26,23,20,0.16); display: flex; flex-direction: column; gap: 6px; break-inside: avoid;">
+<blockquote style="margin: 0; font-family: 'Libre Caslon Text', Georgia, serif; font-size: clamp(17px, 1.5vw, 19px); line-height: 1.4; color: #1A1714; text-wrap: pretty;">“I no longer have a tired/sore voice after a long day of zoom calls and my voice is much clearer and carries better.”</blockquote>
+<figcaption style="margin: 0; font-size: 14px; line-height: 1.45; color: #5C554C; text-wrap: pretty;"><span style="font-weight: 600; color: #1A1714;">Divy Kandala</span>, YC-backed founder</figcaption>
 </figure>
-<figure style="margin: 0; padding: 28px 0; border-top: 1px solid rgba(26,23,20,0.16); display: flex; flex-direction: column; gap: 14px; break-inside: avoid;">
-<blockquote style="margin: 0; font-size: 16px; line-height: 1.65; color: #3D3832; text-wrap: pretty;">“<span style="color: #1A1714; font-weight: 600;">I came to Michael to learn about the mechanics of voice</span> (ex. ‘how do I project to a large audience without “yelling”?’) but through our conversations gained a deeper appreciation and insight into human psychology (you can command a room with your presence alone).”</blockquote>
-<figcaption style="display: flex; flex-direction: column; gap: 2px; font-size: 14px; line-height: 1.4; color: #5C554C;"><span style="font-size: 16px; font-weight: 600; color: #1A1714;">Brian M.</span><span>Subcontract Program Manager, Lockheed Martin</span></figcaption>
+<figure style="margin: 0; padding: 16px 0 18px; border-top: 1px solid rgba(26,23,20,0.16); display: flex; flex-direction: column; gap: 6px; break-inside: avoid;">
+<blockquote style="margin: 0; font-family: 'Libre Caslon Text', Georgia, serif; font-size: clamp(17px, 1.5vw, 19px); line-height: 1.4; color: #1A1714; text-wrap: pretty;">“I came to Michael to learn about the mechanics of voice … you can command a room with your presence alone.”</blockquote>
+<figcaption style="margin: 0; font-size: 14px; line-height: 1.45; color: #5C554C; text-wrap: pretty;"><span style="font-weight: 600; color: #1A1714;">Brian M.</span>, Subcontract Program Manager, Lockheed Martin</figcaption>
 </figure>
-<figure style="margin: 0; padding: 28px 0; border-top: 1px solid rgba(26,23,20,0.16); display: flex; flex-direction: column; gap: 14px; break-inside: avoid;">
-<blockquote style="margin: 0; font-size: 16px; line-height: 1.65; color: #3D3832; text-wrap: pretty;">“Before I started working with Michael my voice was very monotone and <span style="color: #1A1714; font-weight: 600;">I thought I had a bad voice.</span> … Now I can have inflection in my voice, I can use my breath… so that I can speak more clearly and get my message across.”</blockquote>
-<figcaption style="display: flex; flex-direction: column; gap: 2px; font-size: 14px; line-height: 1.4; color: #5C554C;"><span style="font-size: 16px; font-weight: 600; color: #1A1714;">Scott</span><span>CEO in construction</span></figcaption>
+<figure style="margin: 0; padding: 16px 0 18px; border-top: 1px solid rgba(26,23,20,0.16); display: flex; flex-direction: column; gap: 6px; break-inside: avoid;">
+<blockquote style="margin: 0; font-family: 'Libre Caslon Text', Georgia, serif; font-size: clamp(17px, 1.5vw, 19px); line-height: 1.4; color: #1A1714; text-wrap: pretty;">“Before I started working with Michael my voice was very monotone and I thought I had a bad voice. … Now I can have inflection in my voice.”</blockquote>
+<figcaption style="margin: 0; font-size: 14px; line-height: 1.45; color: #5C554C; text-wrap: pretty;"><span style="font-weight: 600; color: #1A1714;">Scott</span>, CEO in construction</figcaption>
 </figure>
-<figure style="margin: 0; padding: 28px 0; border-top: 1px solid rgba(26,23,20,0.16); display: flex; flex-direction: column; gap: 14px; break-inside: avoid;">
-<blockquote style="margin: 0; font-size: 16px; line-height: 1.65; color: #3D3832; text-wrap: pretty;">“I went in to this wanting to have a stronger more assertive voice and after one session <span style="color: #1A1714; font-weight: 600;">I feel like a different man when I’m talking now.</span>”</blockquote>
-<figcaption style="display: flex; flex-direction: column; gap: 2px; font-size: 14px; line-height: 1.4; color: #5C554C;"><span style="font-size: 16px; font-weight: 600; color: #1A1714;">Frank</span></figcaption>
+<figure style="margin: 0; padding: 16px 0 18px; border-top: 1px solid rgba(26,23,20,0.16); display: flex; flex-direction: column; gap: 6px; break-inside: avoid;">
+<blockquote style="margin: 0; font-family: 'Libre Caslon Text', Georgia, serif; font-size: clamp(17px, 1.5vw, 19px); line-height: 1.4; color: #1A1714; text-wrap: pretty;">“… after one session I feel like a different man when I’m talking now.”</blockquote>
+<figcaption style="margin: 0; font-size: 14px; line-height: 1.45; color: #5C554C; text-wrap: pretty;"><span style="font-weight: 600; color: #1A1714;">Frank</span></figcaption>
 </figure>
-<figure style="margin: 0; padding: 28px 0; border-top: 1px solid rgba(26,23,20,0.16); display: flex; flex-direction: column; gap: 14px; break-inside: avoid;">
-<blockquote style="margin: 0; font-size: 16px; line-height: 1.65; color: #3D3832; text-wrap: pretty;">“He’s honestly the GOAT in this entire space. <span style="color: #1A1714; font-weight: 600;">I don’t think you should work with anyone else if you’re looking to get into some sort of voice-related training.</span>”</blockquote>
-<figcaption style="display: flex; flex-direction: column; gap: 2px; font-size: 14px; line-height: 1.4; color: #5C554C;"><span style="font-size: 16px; font-weight: 600; color: #1A1714;">@BowTiedTikTok</span><span>Full-time creator, 40K on Instagram as @trafficbrokerr</span></figcaption>
+<figure style="margin: 0; padding: 16px 0 18px; border-top: 1px solid rgba(26,23,20,0.16); display: flex; flex-direction: column; gap: 6px; break-inside: avoid;">
+<blockquote style="margin: 0; font-family: 'Libre Caslon Text', Georgia, serif; font-size: clamp(17px, 1.5vw, 19px); line-height: 1.4; color: #1A1714; text-wrap: pretty;">“He’s honestly the GOAT in this entire space.”</blockquote>
+<figcaption style="margin: 0; font-size: 14px; line-height: 1.45; color: #5C554C; text-wrap: pretty;"><span style="font-weight: 600; color: #1A1714;">@BowTiedTikTok</span>, Full-time creator, 40K on Instagram as @trafficbrokerr</figcaption>
 </figure>
 </div>
 </div>
@@ -181,14 +211,14 @@ summary.vm-q:hover{color:#7A2E22 !important}
 <section id="about" aria-labelledby="about-title" style="background: #FAF7F1; border-top: 1px solid rgba(26,23,20,0.16);">
 <div style="max-width: 1280px; margin: 0 auto; box-sizing: border-box; padding: clamp(44px, 6.5vw, 96px) clamp(20px, 5vw, 64px); display: flex; flex-wrap: wrap; align-items: flex-start; gap: 28px clamp(32px, 5vw, 80px);">
 <figure style="flex: 5 1 300px; min-width: 0; margin: 0;">
-<img src="/assets/traviata-duet.jpg" alt="Michael Hewitt in a tailcoat on stage beside a soprano in La traviata at The Kennedy Center" width="1000" height="1412" style="display: block; width: 100%; height: auto; aspect-ratio: 4 / 5; object-fit: cover; object-position: 50% 6%; background: #E6DFD2;">
+<img class="vm-photo" src="/assets/traviata-duet.jpg" alt="Michael Hewitt in a tailcoat on stage beside a soprano in La traviata at The Kennedy Center" width="1000" height="1412" style="display: block; width: 100%; height: auto; aspect-ratio: 4 / 5; object-fit: cover; object-position: 50% 6%; background: #E6DFD2;">
 <figcaption style="margin: 10px 0 0; font-size: 14px; line-height: 1.45; color: #5C554C;">In <i>La traviata</i>, Washington National Opera at The Kennedy Center.</figcaption>
 </figure>
 <div style="flex: 7 1 420px; min-width: 0; display: flex; flex-direction: column; gap: 22px;">
 <p style="margin: 0; font-family: 'Libre Caslon Text', Georgia, serif; font-style: italic; font-size: 21px; line-height: 1.3; color: #1A1714;">About</p>
 <h2 id="about-title" style="margin: 0; font-family: 'Libre Caslon Display', 'Big Caslon', Georgia, serif; font-weight: 400; font-size: clamp(32px, 4vw, 56px); line-height: 1.04; letter-spacing: -0.012em; text-wrap: balance; color: #1A1714;">I’m a natural on stage. I’ve spent a decade teaching it.</h2>
-<p style="margin: 0; font-family: 'Libre Caslon Text', Georgia, serif; font-size: clamp(20px, 1.9vw, 26px); line-height: 1.42; color: #1A1714; max-width: 26em; text-wrap: pretty;">Former professional opera singer and enterprise cybersecurity account executive, current voice coach to founders, CEOs, and business leaders.</p>
-<p style="margin: 0; font-size: 18px; line-height: 1.65; color: #3D3832; max-width: 34em; text-wrap: pretty;">I started coaching in 2015, alongside my stage career: top of my Master of Music class at Rice University, then return engagements at WNO at The Kennedy Center, Arena Stage, and Glimmerglass Festival.</p>
+<p style="margin: 0; font-family: 'Libre Caslon Text', Georgia, serif; font-size: clamp(18px, 1.55vw, 20px); line-height: 1.55; color: #1A1714; text-wrap: pretty; max-width: 34em;">I spent my late teens and all of my twenties training for and working on the upper echelons of international opera stages. When the pandemic shut down all stage work indefinitely, I pivoted to tech, and had success as an Account Executive, selling cybersecurity software to orgs of all sizes.</p>
+<p style="margin: 0; font-family: 'Libre Caslon Text', Georgia, serif; font-size: clamp(18px, 1.55vw, 20px); line-height: 1.55; color: #1A1714; text-wrap: pretty; max-width: 34em;">Since undergrad in the mid-2010s, I have been coaching and consulting. After getting laid off in early 2023, I moved full-time into what is now Command a Room, providing media training and executive coaching for CEOs, founders, and technical leaders.</p>
 </div>
 </div>
 </section>
